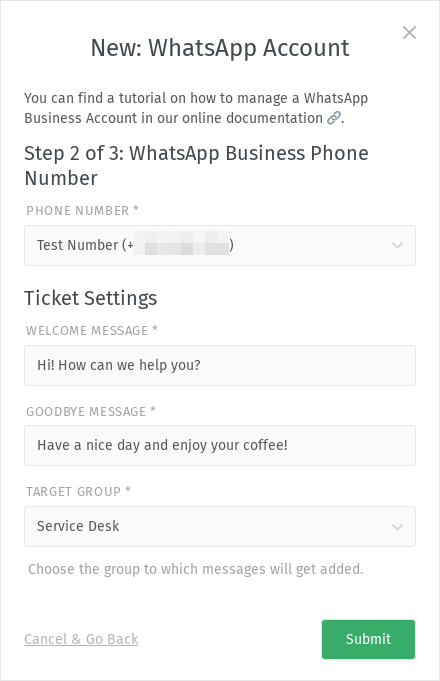
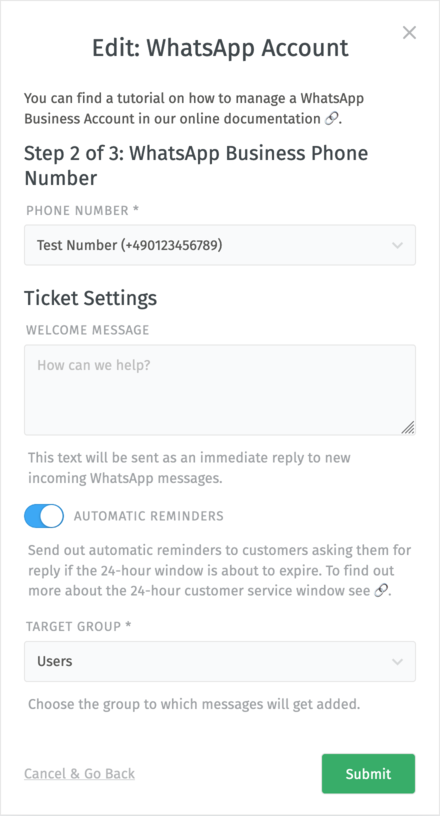
Fixes #473 - Document extended/changed WA features.

diff --git a/channels/whatsapp/index.rst b/channels/whatsapp/index.rst
@@ -8,7 +8,7 @@ WhatsApp
 
 With the release of Zammad 6.3, you can now connect your Zammad with a
 WhatsApp Business account, allowing your customers to reach out to you through
-WhatsApp.  🎉
+WhatsApp. 🎉
 
 If you already dived deep into this topic, you can head to the setup guide.
 If not, we strongly encourage you to read the prerequisites and limitations
@@ -23,11 +23,11 @@ steps on Meta/WhatsApp side.
    connect WhatsApp to Zammad. You won't be able
    to connect to WhatsApp in Zammad if you just use the WhatsApp Business *App*.
    Have a look
-   `here <https://developers.facebook.com/docs/whatsapp/cloud-api?locale=en_US>`_
+   `here <https://developers.facebook.com/docs/whatsapp/cloud-api>`_
    for further information about the Cloud API.
 
-   There may be costs for you from Meta/WhatsApp side. 1000 service
-   conversations per month are free. However, you should have a look on their
+   There may be additional costs for you from Meta/WhatsApp side. 1000 service
+   conversations per month are free. However, you should have a look at their
    `pricing page <https://developers.facebook.com/docs/whatsapp/pricing>`_ to
    be safe from surprises.
 
@@ -44,12 +44,12 @@ You can find a guide through the required steps on our
 It covers the following steps:
 
 - Create a Meta Business account
-- Create a Meta developer account
-- Create a Meta developer app
-- Add WhatsApp product to your app
-- Create a system user
+- Create a Meta Developer account
+- Create a Meta Developer app
+- Add WhatsApp Product to your app
+- Create a System User
 - Configure your WhatsApp Business platform
-- Assign a unused phone number
+- Assign an unused Phone Number
 
 Additionally, you have to meet the following requirements:
 
@@ -64,22 +64,24 @@ Limitations
 
 There are a number of limitations for this channel. Read them carefully.
 
-24-hour communication time window
+24-hour customer service window
    If a customer gets in touch with you via WhatsApp, a 24 hour window is
-   opened. In this time window you can answer the question of
-   the customer. If the customer isn't replying, the conversation ends
-   after 24 hours. You can't communicate with this customer via WhatsApp due to
-   their privacy policy until a new conversation is started by your customer.
+   opened. Within this time window you can freely answer the question of the
+   customer. If the customer isn't replying, the service window will be
+   automatically closed after 24 hours. You will not be able to communicate with
+   this customer via WhatsApp due to their privacy policy and until a fresh
+   reply is received from your customer after the service window expires.
 
-   If the ticket cannot be closed and to keep the conversation ongoing, we
-   suggest to create a dedicated trigger for the WhatsApp channel. For example
-   you could send an auto-generated message to the customer after 20 hours and
-   ask to reply to your message to keep the conversation open.
+   In case the ticket cannot be closed yet and in order to facilitate an ongoing
+   conversation, automatic reminders will be sent to the customer asking them to
+   reply and keep the service window open. They are sent 23 hours after a
+   message is received, and can be optionally deactivated in the channel
+   configuration.
 
 Customer-initiated communication only
    The WhatsApp channel only supports customer initiated communication.
    For business-initiated communication, it would be necessary to create a
-   message template which has to be verified by Meta first which is Currently
+   message template which has to be verified by Meta first which is currently
    not supported by Zammad.
 
 Supported media types
@@ -100,8 +102,8 @@ File size for attachments
    - video: 16 MB
    - sticker: 100/500 KB (static/animated)
 
-   To read more in detail, have a look on their `documentation of supported
-   media types <https://developers.facebook.com/docs/whatsapp/cloud-api/reference/media?locale=en_US#supported-media-types>`_.
+   To read more in detail, have a look at their `documentation of supported
+   media types <https://developers.facebook.com/docs/whatsapp/cloud-api/reference/media#supported-media-types>`_.
 
 One phone number per app
    If you want to use more than one phone number, you have to create a business
@@ -112,8 +114,8 @@ Setup
 -----
 
 First of all, make sure to match the prerequisites and to read the limitations
-above. If you did not setup your Meta developer account, Meta business account
-and your developer app, first go to our :doc:`preparation page <preparation>`
+above. If you did not setup your Meta Developer account, Meta Business account
+and Meta Developer app, first go to our :doc:`preparation page <preparation>`
 and come back here after finishing it.
 
 Then head over to Zammad's admin panel to add the WhatsApp channel under
@@ -149,7 +151,7 @@ Access Token
       :align: center
 
 
-   Choose your created app, a expiration date of the token (we recommend
+   Choose your created app, an expiration date of the token (we recommend
    "Never") and the permissions ``whatsapp_business_management`` and
    ``whatsapp_business_messaging``:
 
@@ -187,11 +189,17 @@ Phone Number
    credentials from step 1 may be wrong.
 
 Welcome Message
-   Here you can define a message which is sent to your customers
-   when they are writing to you.
+   Here you can define an optional text message which is automatically sent to
+   your customers when the initial message is received.
 
-Goodbye Message
-   Here you can define a message which is sent when the conversation ends.
+Automatic Reminders
+   Here you can control whether the automatic reminders about the customer
+   service window are sent to the customer when the window is about to expire.
+
+   For more information on 24-hour customer service windows, take a look at
+   Meta's
+   `conversation description <https://developers.facebook.com/docs/whatsapp/pricing#customer-service-windows>`_
+   under "Customer Service Windows".
 
 Target Group
    Here you can define the :doc:`group </manage/groups/index>` in which the
@@ -255,6 +263,4 @@ Define webhook fields
    as in the first screenshot.
 
 After finishing this step, you can click on the **Finish** button in Zammad
-and you should now be ready to receive Tickets from your WhatsApp channel!
-
-
+and you should now be ready to receive tickets from your WhatsApp channel!

diff --git a/channels/whatsapp/preparation.rst b/channels/whatsapp/preparation.rst
@@ -74,8 +74,8 @@ If you already have a business account, you should assign it. In this step, this
 is optional, but later it is required anyway. Click on "Create App" to finish
 this step.
 
-Add WhatsApp  Product to Your App
----------------------------------
+Add WhatsApp Product to Your App
+--------------------------------
 
 Now you have to add a product to your app. In our case, this is WhatsApp.
 Search for it and click on "Set up":
@@ -128,9 +128,8 @@ presented to you. Click on "Start using the API":
     :alt: App dashboard overview
     :align: center
 
-
 Assign an Unused Phone Number
-----------------------------------
+-----------------------------
 
 Please note: this number may not be used in a WhatsApp app already!
 
